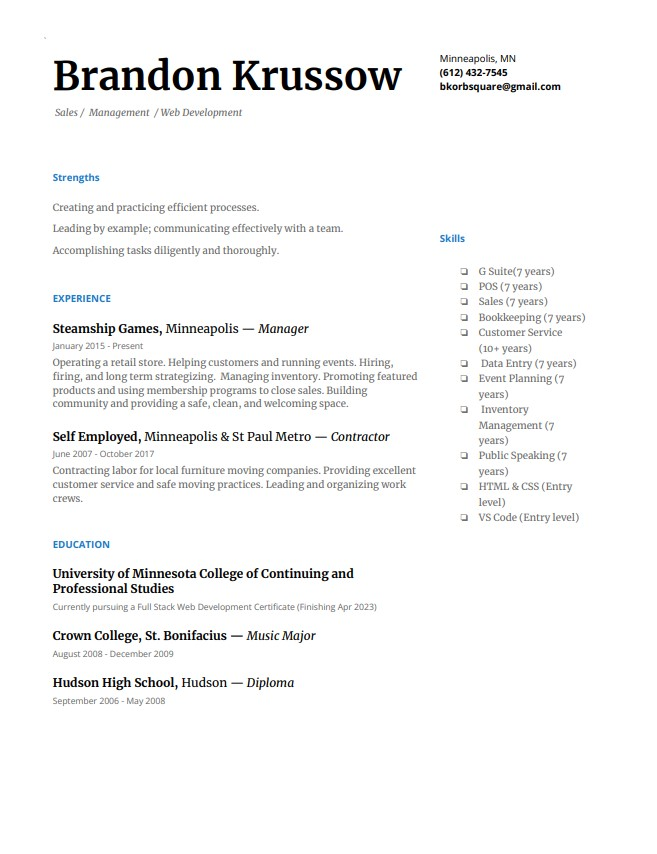
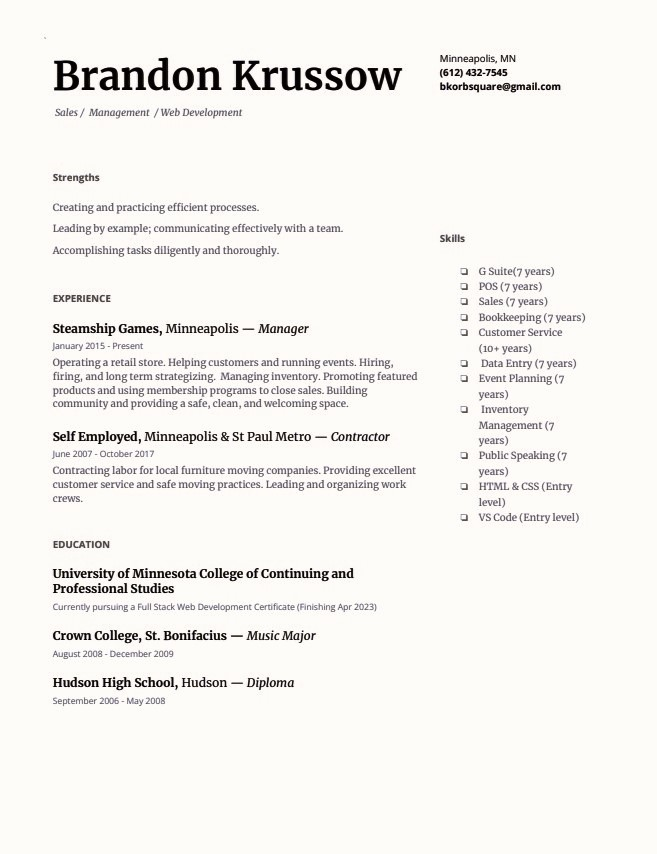
fixed image path & color

diff --git a/Index.html b/Index.html
@@ -49,7 +49,7 @@
             </article>
             <article id="resume" class="resumesection">
                 <h2 class="Resume"><b>Resume</b></h2>
-                   <img src="bkrussowresume.jpg" alt="resume picture">
+                   <img src="assets/images/bkrussowresume.jpg" alt="resume picture">
             </article>
             <article id="contact" class="contactsection">
                 <h2 class="Contact"><b>Contact</b></h2>
